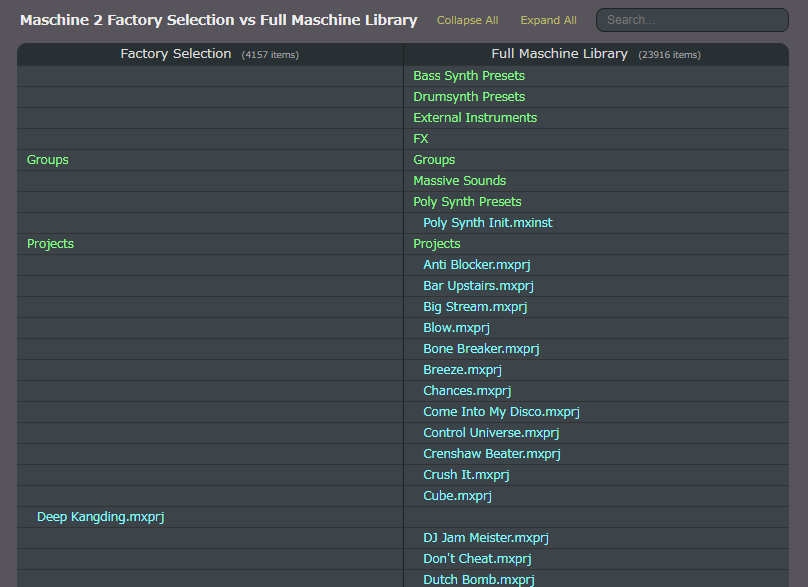
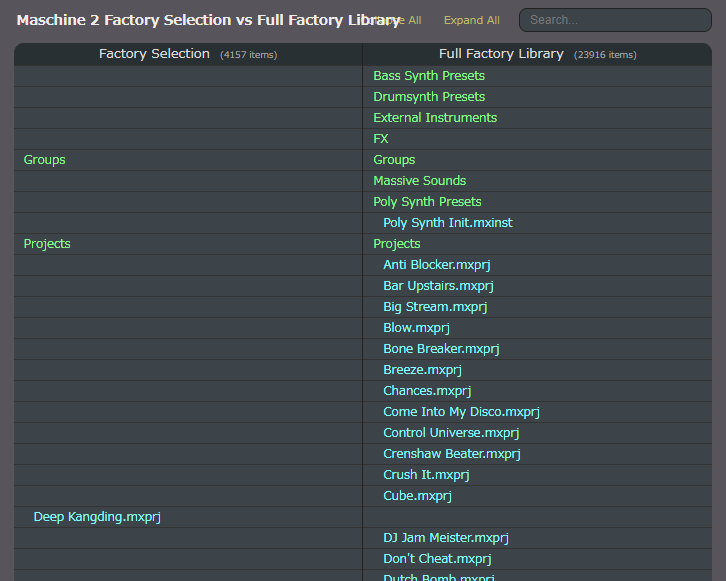
change html

diff --git a/docs/index.html b/docs/index.html
@@ -1,15 +1,16 @@
 <html>
 <head>
+<title>Maschine 2 Factory Selection vs Full Factory Library</title>
 <link rel=Stylesheet href=style.css>
 </head>
 <body>
-<div id="title"><h1>Maschine 2 Factory Selection vs Full Maschine Library</h1></div>
+<div id="title"><h1>Maschine 2 Factory Selection vs Full Factory Library</h1></div>
 <div id="control"><div id="collapse">Collapse All</div><div id="expand">Expand All</div>
 <input type="search" id="search" placeholder="Search..."></div>
 <table>
 <tr>
 <th>Factory Selection<span id="cnt_selection">(0000 items)</span></th>
-<th >Full Maschine Library<span id="cnt_full">(00000 items)</span></th>
+<th >Full Factory Library<span id="cnt_full">(00000 items)</span></th>
 </tr>
 <tr class="p1 l0 d"><td></td><td>Bass Synth Presets</td></tr>
 <tr class="c1 l1 h"><td></td><td>Saw Init.mxinst</td></tr>
@@ -24528,7 +24529,7 @@
 <tr class="c440 c425 l2 h"><td></td><td>Wooden Flute.mxsnd</td></tr>
 </table>
 <div id="update">2023-12-27 update</div>
-<div id="about"><a href="https://github.com/aike/m2librarylist">about</a></div>
+<div id="about"><a href="https://github.com/aike/M2LibraryList">about</a></div>
 <div id="cnt_selection_value" value="4157" style="display:none"/>
 <div id="cnt_full_value" value="23916" style="display:none"/>
 <script src="script.js"></script>

diff --git a/makehtml.py b/makehtml.py
@@ -73,23 +73,24 @@ def dirdiff(dir1, dir2):
 
 print("<html>")
 print("<head>")
+print("<title>Maschine 2 Factory Selection vs Full Factory Library</title>")
 print("<link rel=Stylesheet href=style.css>")
 print("</head>")
 print("<body>")
-print('<div id="title"><h1>Maschine 2 Factory Selection vs Full Maschine Library</h1></div>')
+print('<div id="title"><h1>Maschine 2 Factory Selection vs Full Factory Library</h1></div>')
 print('<div id="control"><div id="collapse">Collapse All</div><div id="expand">Expand All</div>')
 print('<input type="search" id="search" placeholder="Search..."></div>')
 print("<table>")
 print("<tr>")
 print('<th>Factory Selection<span id="cnt_selection">(0000 items)</span></th>')
-print('<th >Full Maschine Library<span id="cnt_full">(00000 items)</span></th>')
+print('<th >Full Factory Library<span id="cnt_full">(00000 items)</span></th>')
 print("</tr>")
 
 cnt_sel, cnt_ful = dirdiff(dir1, dir2)
 
 print("</table>")
 print('<div id="update">{} update</div>'.format(str(datetime.datetime.today().date())))
-print('<div id="about"><a href="https://github.com/aike/m2librarylist">about</a></div>')
+print('<div id="about"><a href="https://github.com/aike/M2LibraryList">about</a></div>')
 print('<div id="cnt_selection_value" value="{}" style="display:none"/>'.format(cnt_sel))
 print('<div id="cnt_full_value" value="{}" style="display:none"/>'.format(cnt_ful))
 print('<script src="script.js"></script>')
